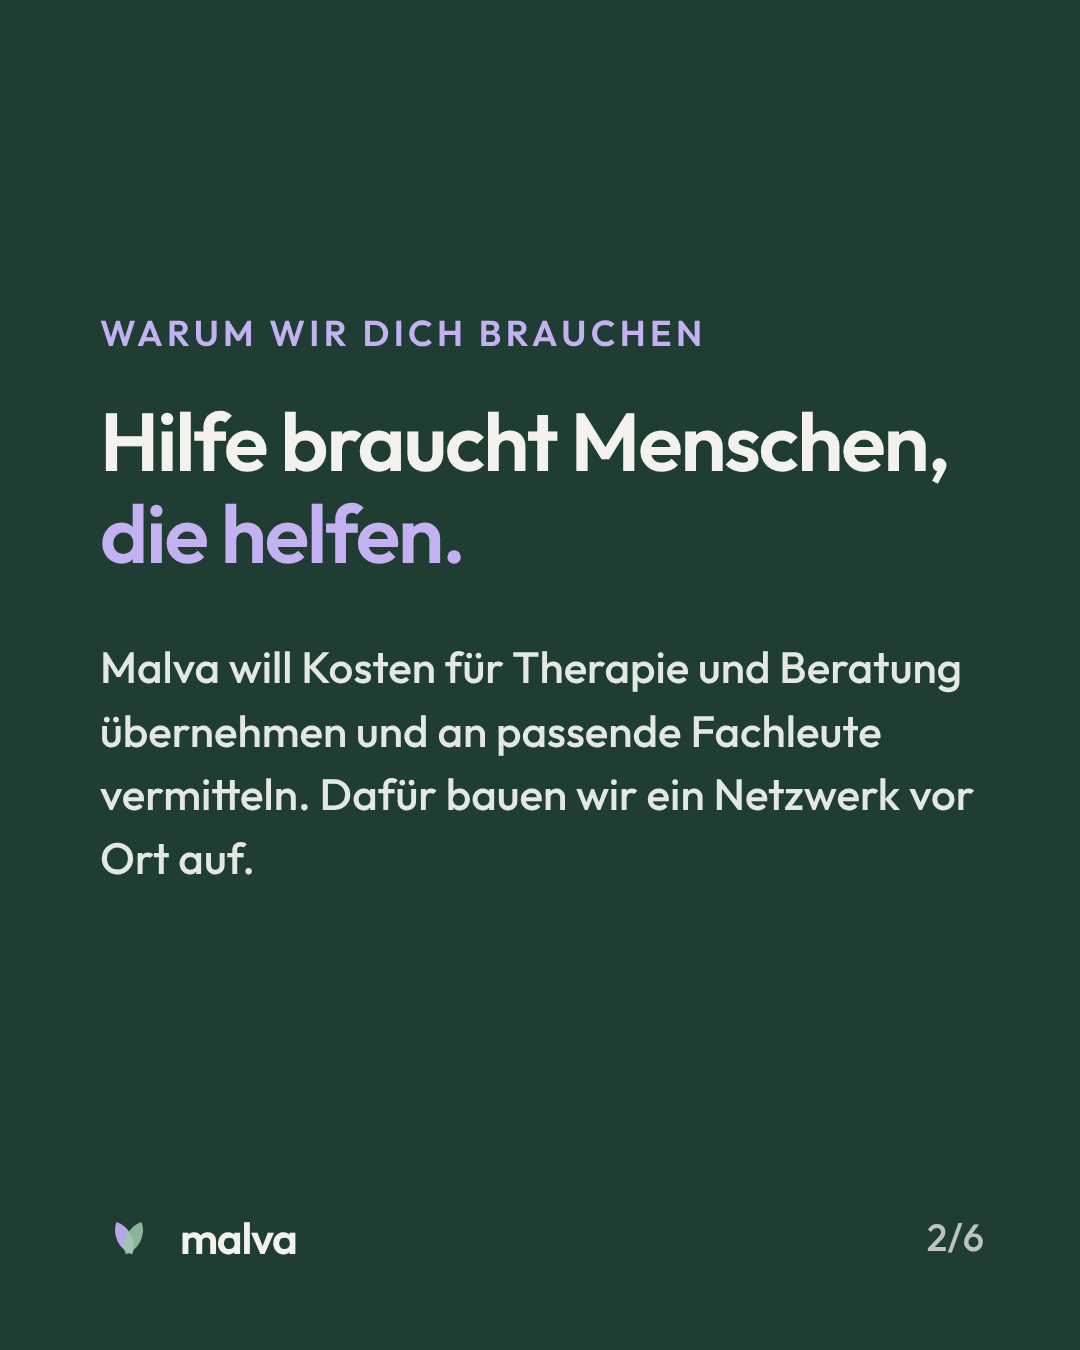
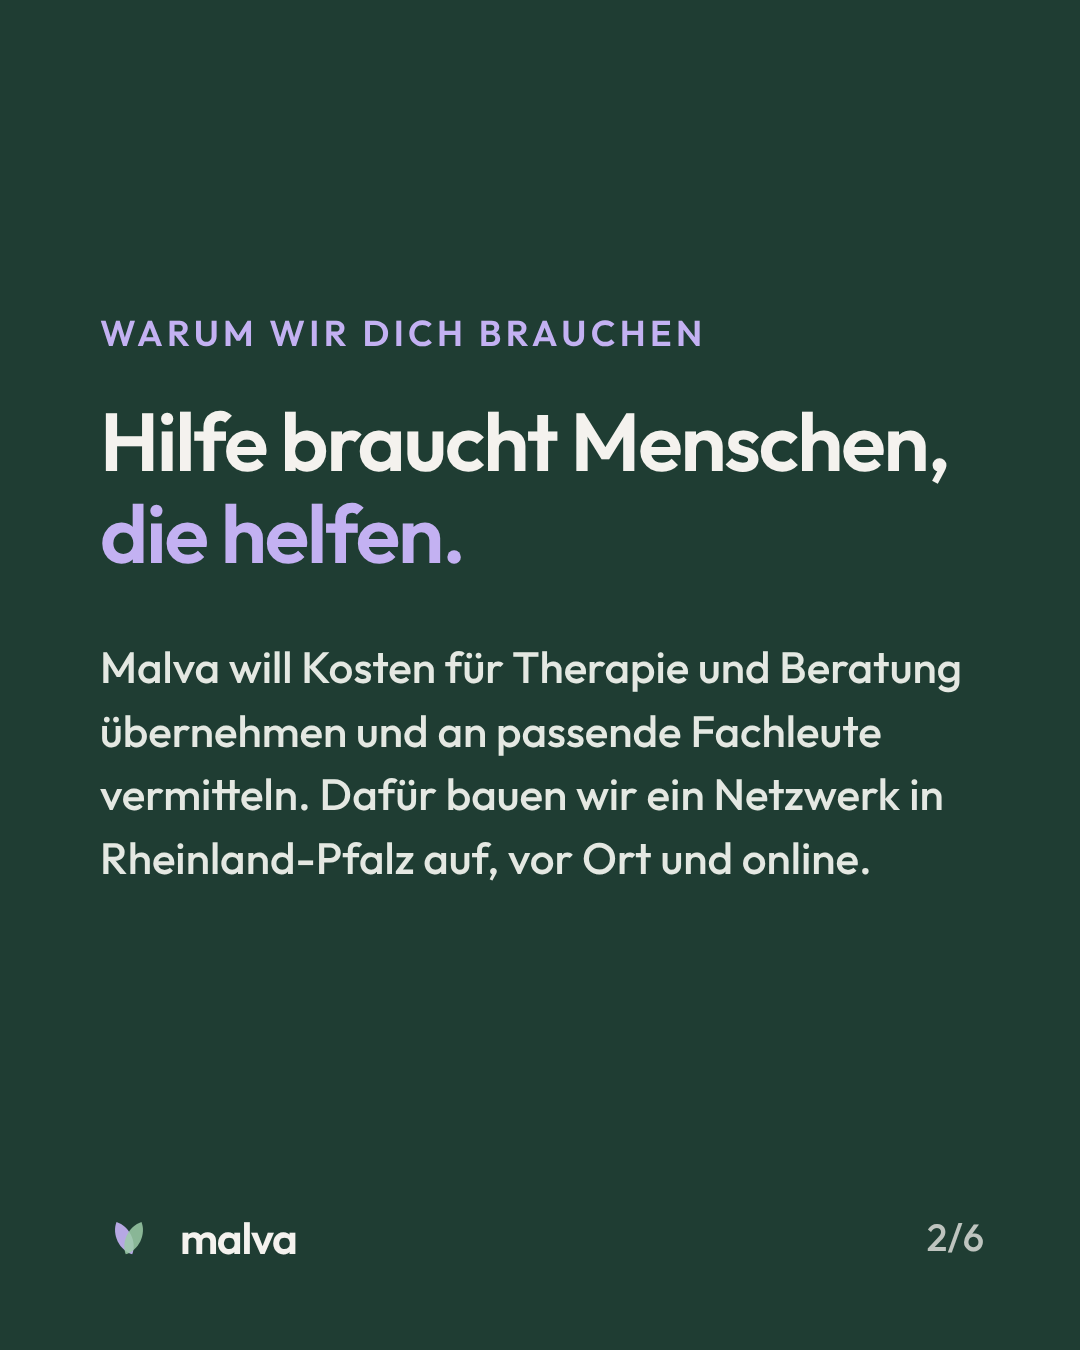
Partner-Post: Region Pfalz und ganz Rheinland-Pfalz, auch online
Claude-Session: https://claude.ai/code/session_015uEer6M6e5oi78ZvJtGjnt

Changed region(s): [[0.0917, 0.6222, 0.7944, 0.6533], [0.8556, 0.56, 0.8861, 0.6222]]

diff --git a/malva-website/instagram/partner-gesucht/slides.html b/malva-website/instagram/partner-gesucht/slides.html
@@ -42,14 +42,14 @@ h2{font-weight:600;font-size:82px;line-height:1.12;letter-spacing:-.025em}
   <div class="mark-top" data-mark="d"></div>
   <p class="kicker">Partner:innen gesucht</p>
   <h1 style="font-size:132px">Wir suchen<br><span class="hl">dich!</span></h1>
-  <p class="body">in Bad Dürkheim und Umgebung</p>
+  <p class="body">in der Pfalz und ganz Rheinland-Pfalz,<br>auch online</p>
   <div class="foot"><div class="brand" data-mark="d"><span>malva</span></div><span class="more">Mehr erfahren →</span></div>
 </section>
 
 <section class="slide dark" id="s2">
   <p class="kicker">Warum wir dich brauchen</p>
   <h2>Hilfe braucht Menschen, <span class="hl">die helfen.</span></h2>
-  <p class="body">Malva will Kosten für Therapie und Beratung übernehmen und an passende Fachleute vermitteln. Dafür bauen wir ein Netzwerk vor Ort auf.</p>
+  <p class="body">Malva will Kosten für Therapie und Beratung übernehmen und an passende Fachleute vermitteln. Dafür bauen wir ein Netzwerk in Rheinland-Pfalz auf, vor Ort und online.</p>
   <div class="foot"><div class="brand" data-mark="d"><span>malva</span></div><span class="num">2/6</span></div>
 </section>
 
@@ -94,7 +94,7 @@ h2{font-weight:600;font-size:82px;line-height:1.12;letter-spacing:-.025em}
   <div class="mark-top" style="width:260px" data-mark="d"></div>
   <p class="kicker">Partner:innen gesucht</p>
   <h1 style="font-size:150px">Wir suchen<br><span class="hl">dich!</span></h1>
-  <p class="body" style="margin-top:80px">Therapie, Beratung, Coaching<br>oder Unterstützung aus der Region</p>
+  <p class="body" style="margin-top:80px">in der Pfalz und ganz<br>Rheinland-Pfalz, auch online</p>
   <p class="sage" style="margin-top:90px">Schreib uns eine DM · @malva.ev</p>
   <div class="foot" style="bottom:200px;justify-content:center"><div class="brand" data-mark="d"><span>malva</span></div></div>
 </section>
